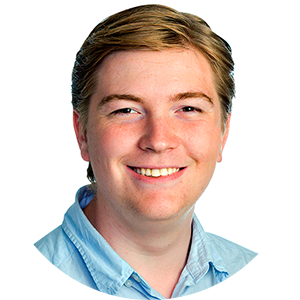
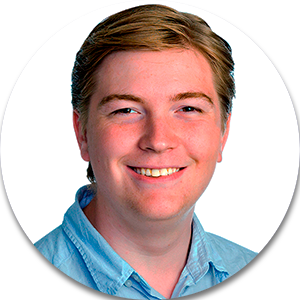
Add files via upload

diff --git a/styles/style.css b/styles/style.css
@@ -1,39 +1,67 @@
 html {
-    font-size: 11px;
-    font-family: 'Source Sans Pro', sans-serif;
-    color: white;
-    background-color: #151318;
-}
-
-body {
-    width: 600px;
-    margin: 0 auto;
-    background-color: darkslategrey;
-    padding: 0 20px 20px 20px;
-    border: 5px dimgray;
-}
-
-h1 {
-    margin: 0;
-    padding: 20px 0;
-    text-shadow: 0 3px 5px black;
-    font-size: 60px;
-    text-align: center;
-}
-
-p, li {
-    font-size: 16px;
+    background-color: #0E0B11;
     line-height: 1.5;
-    letter-spacing: 1px;
+    color: white;
+    font-family: 'Source Sans Pro', sans-serif;
+    font-size: 14px;
+    background-image: image("images/mountains.png");
+    overflow: hidden;
 }
 
-#subh1 {
-    font-size: 24px;
-    font-stretch: 200px;
-    text-align: center;
+#mountains {
+    max-width: 100%;
+    height: auto;
 }
 
-img {
+#title {
+    font-size: 70px;
+    text-shadow: 3px 3px 9px black;
+    margin-bottom: -30px;
+}
+
+#subtitle {
+    font-size: 20px;
+    text-shadow: 3px 3px 9px black;
+    margin-left: 5px;
+}
+
+#mountains {
+    position: absolute;
+    left: 0px;
+    top: 0px;
+    z-index: -1;
+}
+
+#mig {
+    width: 225px;
+    padding-top: 60px;
+    margin-left: auto;
+    margin-right: auto;
     display: block;
-    margin: 0 auto;
+}
+
+/* Style tab links */
+.tablink {
+    background-color: rgba(0, 0, 0, 0.39);
+    color: white;
+    float: left;
+    border: none;
+    outline: none;
+    cursor: pointer;
+    padding: 14px 16px;
+    font-size: 17px;
+    width: 25%;
+    margin-top: 70px;
+}
+  
+.tablink:hover {
+    background-color: #777;
+}
+
+.solid {
+    border-style: solid;
+    border-width: 3px;
+    border-color: white;
+    padding: 5px;
+    margin: auto;
 }

diff --git a/index.html b/index.html
@@ -4,24 +4,30 @@
 
     <head>
         <meta charset='utf-8'>
-        <title>My test page</title>
+        <title>Mads Sahl Torjusen</title>
         <link href='styles/style.css' rel='stylesheet'>
         <link href='https://fonts.googleapis.com/css?family=Source+Sans+Pro&display=swap' rel='stylesheet'>
     </head>
     
     <body>
-        <h1>MADS SAHL TORJUSEN</h1>
-        <p id='subh1'>Studerende på By-, Energi- og Miljøplanlægning AAU</p>
-        <img src='images/mig_rund.png' alt='My test image'>
-        <p>Dette er ikke min første gang med HTML, men jeg vil dog denne gang prøve at gennemføre det og <a href='https://developer.mozilla.org/en-US/docs/Learn/Getting_started_with_the_web/HTML_basics'>en hjemmeside</a>. For at gøre dette vil jeg:</p>
-        <ul>
-            <li>Lave en om mig side</li>
-            <li>Lave en projekter side</li>
-            <li>Lave en kontakt side</li>
-        </ul>
-        
-        <button>Change user</button>
-        <script src='scripts/main.js'></script>
+        <div style="text-align: center;">   
+            <h1 id="title">MADS SAHL TORJUSEN</h1>
+            <p id="subtitle">Studerende på By-, Energi- og Miljøplanlægning AAU</p>
+        </div>
+
+        <div class="circle">
+            <img src="images/mig_rund.png" alt="Mads Sahl Torjusen" id="mig">
+        </div>
+
+        <img src="images/mountains.png" alt="Starry mountains" id="mountains">
+
+        <button class="tablink">Forside</button>
+        <button class="tablink">Projekter</button>
+        <button class="tablink">CV</button>
+        <button class="tablink">Kontakt</button>
+
+        <p class="solid"> Mit navn er Mads Sahl Torjusen</p>
+
     </body>
 
 </html>
